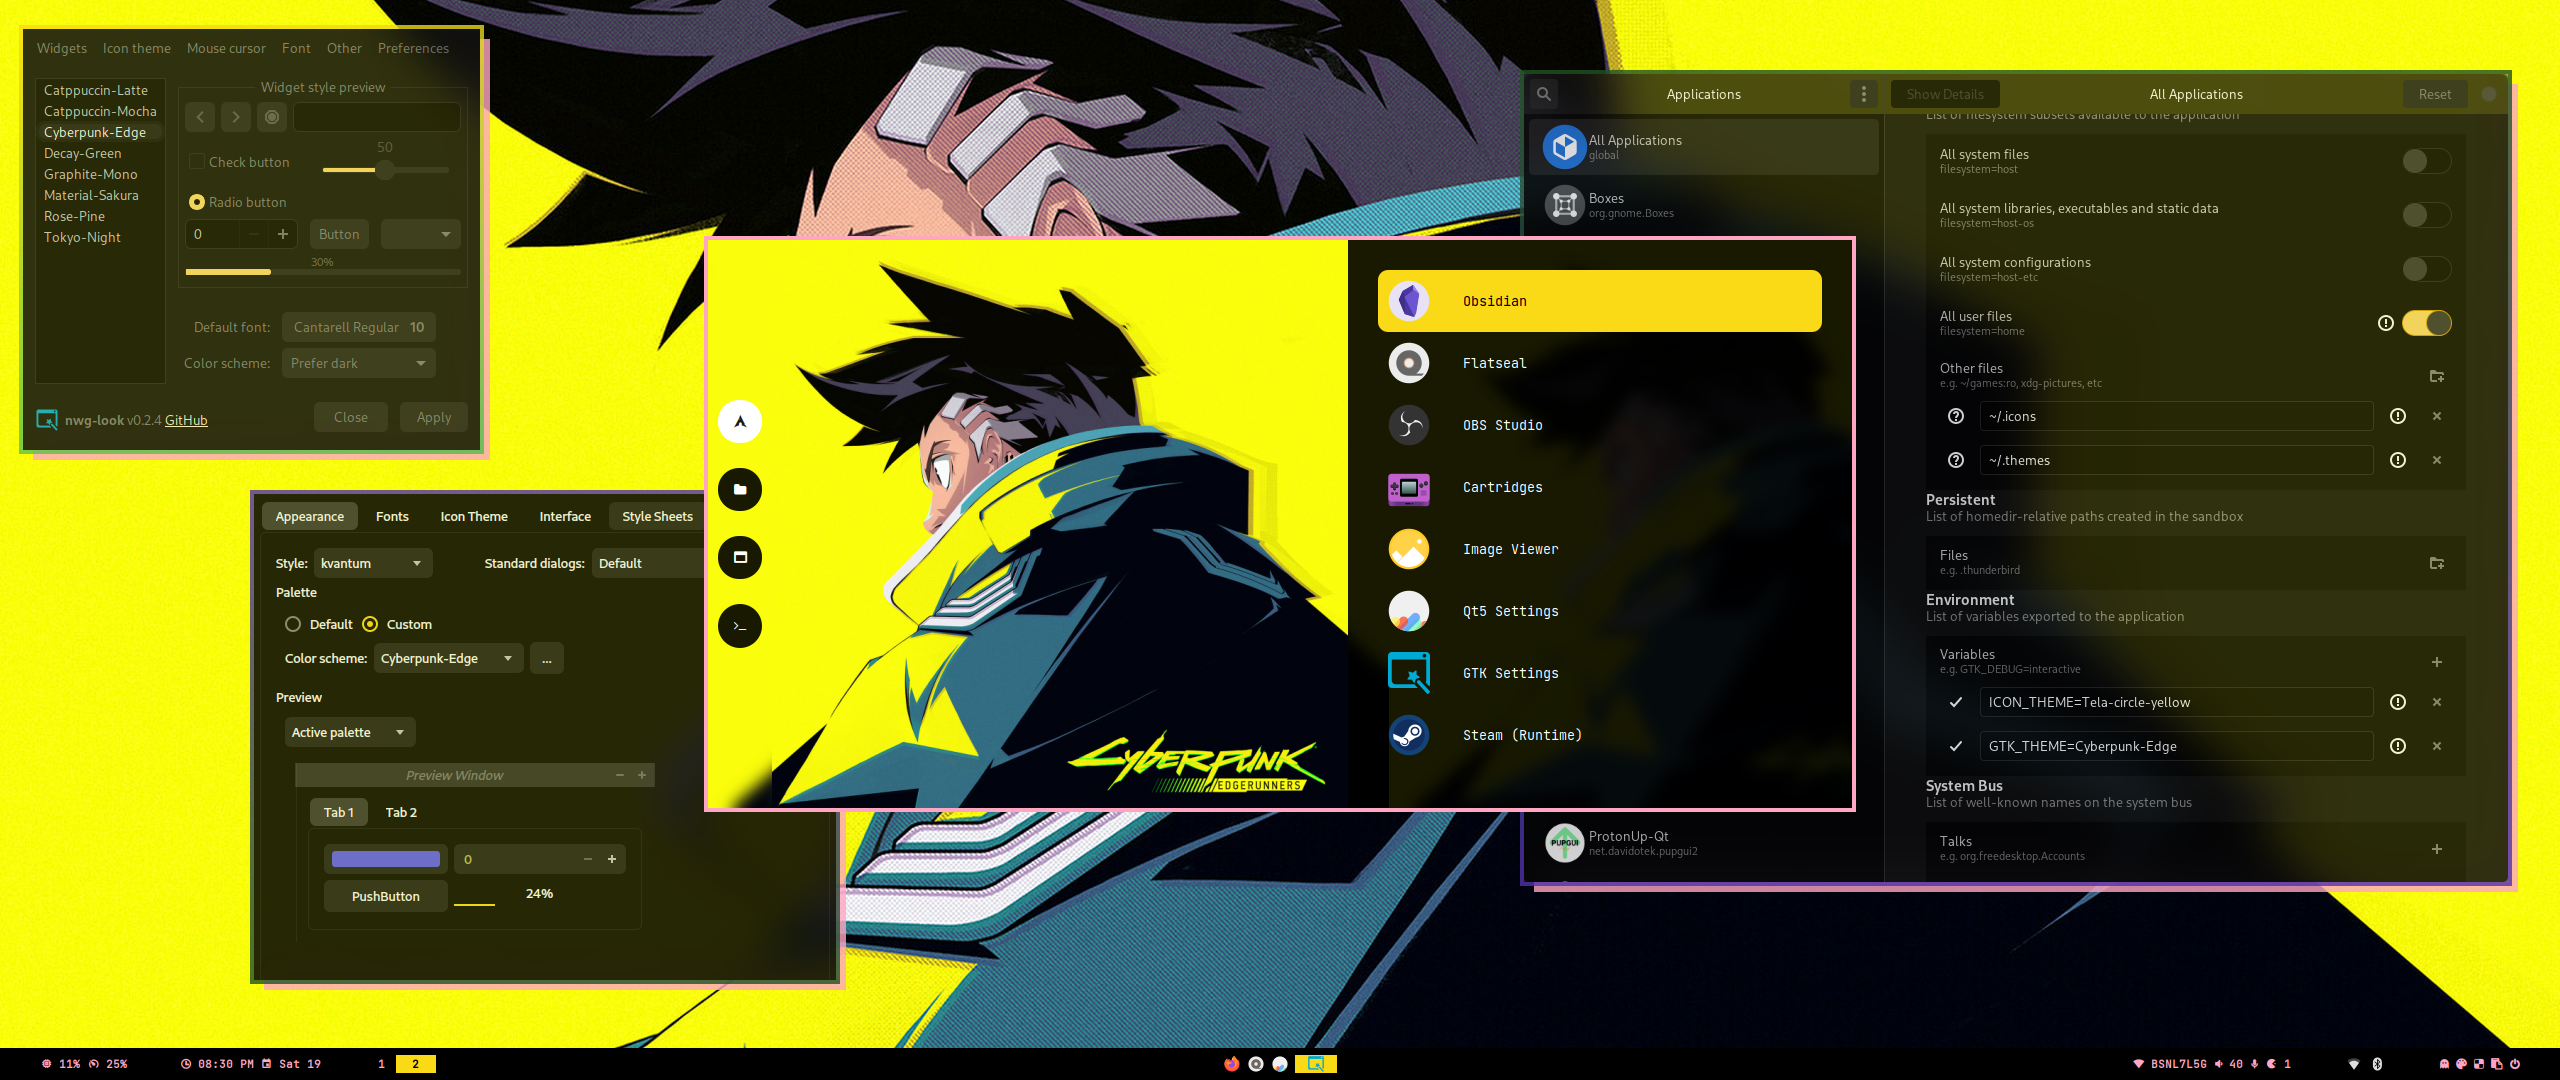
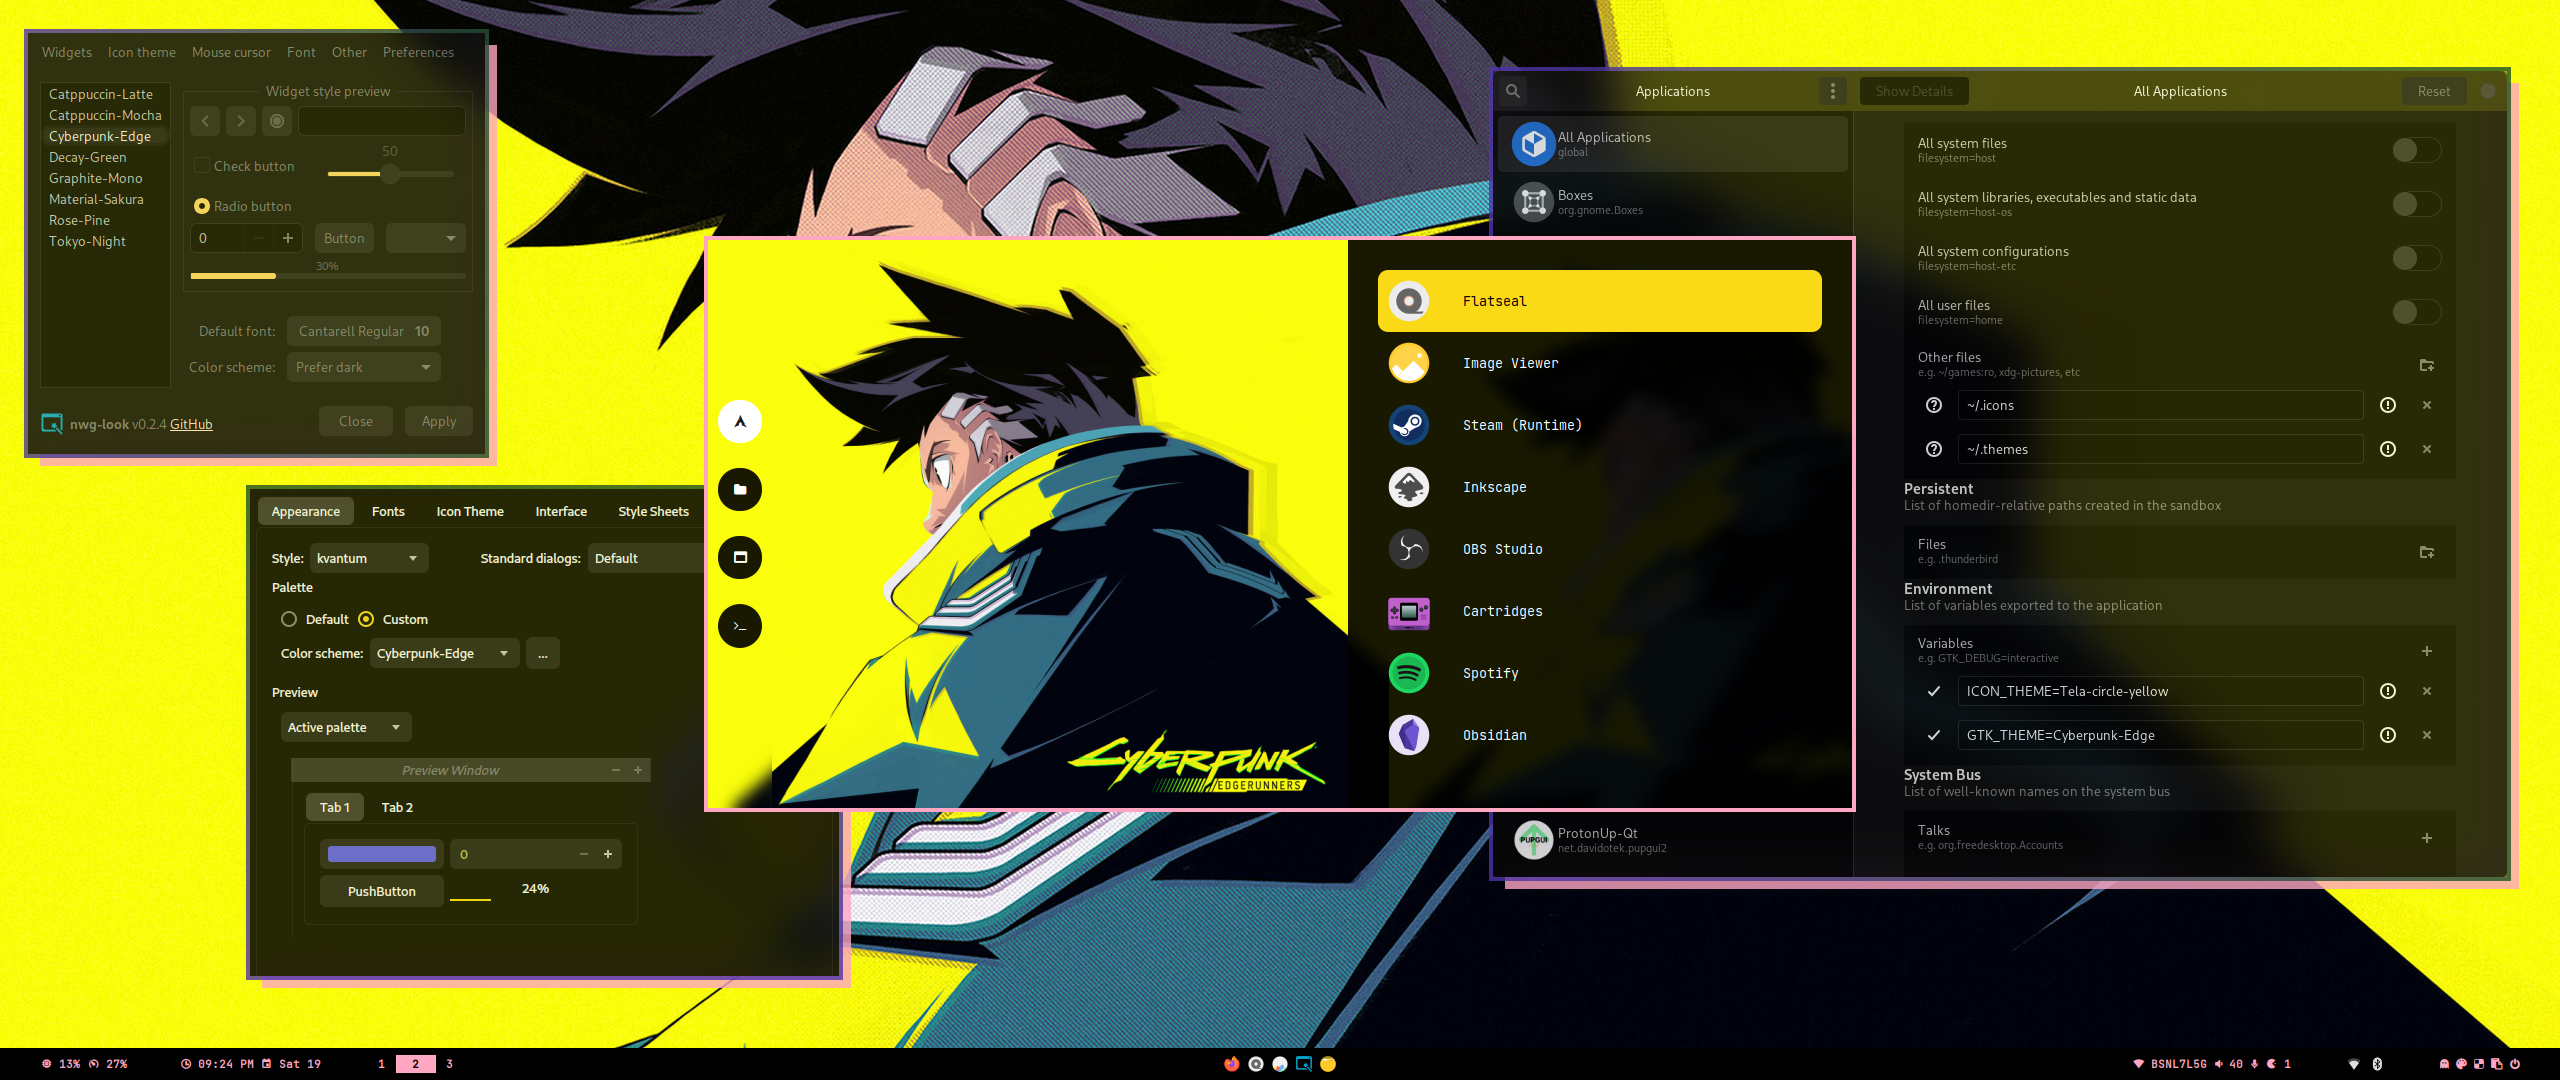
adding edgerunner theme

diff --git a/Configs/.config/waybar/themes/Cyberpunk-Edge.css b/Configs/.config/waybar/themes/Cyberpunk-Edge.css
@@ -9,8 +9,8 @@
 
 @define-color wb-color #FFA6C2;
 
-@define-color wb-act-bg #FADA16;
+@define-color wb-act-bg #FFA6C2;
 @define-color wb-act-color #000000;
 
-@define-color wb-hvr-bg #FFA6C2;
+@define-color wb-hvr-bg #FADA16;
 @define-color wb-hvr-color #000000;
